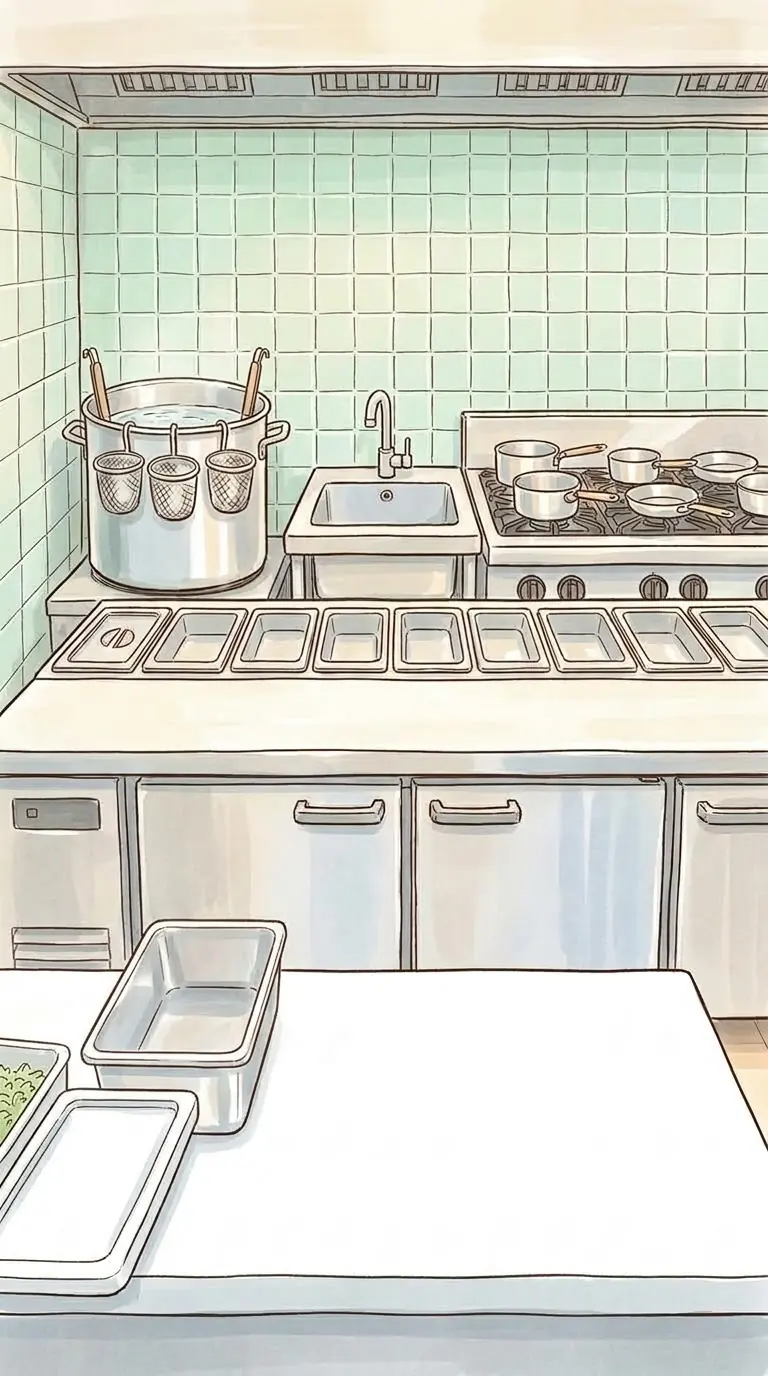
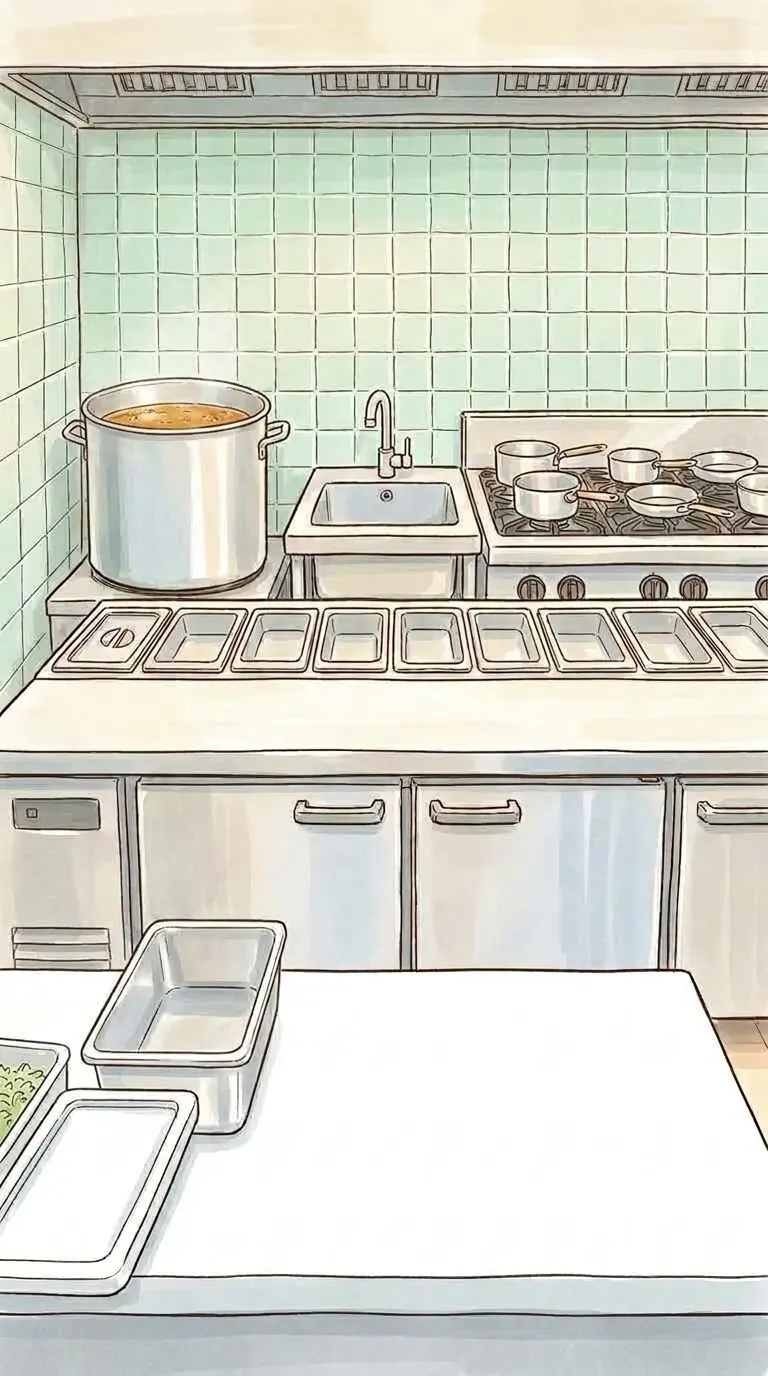
feat(pov): ro trung thanh sprite rieng, xoa khoi noi trong nen

diff --git a/src/pov.js b/src/pov.js
@@ -3,7 +3,7 @@
 import { D, label, tokenMatches } from './game/recipes.js';
 import { iconUrl } from './game/icons.js';
 import { Counter, povOk } from './game/counter.js';
-import { dishArt, dishArtAt, dishStage, faceArt, fx, hand, stationArt } from './game/art.js';
+import { dishArt, dishArtAt, dishStage, faceArt, fx, hand, stationArt, basketArt } from './game/art.js';
 import { POUR, BOWL, SCENE, ZONES } from './data/counter-layout.js';
 export { povOk };
 
@@ -84,9 +84,11 @@ export class Pov {
     const sv = $('pvServed'); if (sv) sv.textContent = `${C.results.length - C.left}/${C.rounds}`;
     $('pvTickets').innerHTML = C.tickets.map((t) => `<div class="tk drop${t.regular ? ' reg' : ''}" data-zone="ticket" data-i="${t.id}"><img class="tk-face" src="${faceArt(t.regular, t.id)}" alt="" draggable="false" onerror="this.remove()"><b>${t.name}</b><span>${D.recipes[t.dish].name}</span><i class="bar"><u style="width:${C.patienceOf(t) * 100}%;background:${C.patienceOf(t) < 0.25 ? 'var(--red)' : C.patienceOf(t) < 0.5 ? 'var(--broth)' : 'var(--green)'}"></u></i></div>`).join('');
     if (this.has.pot) $('pvBaskets').innerHTML = C.baskets.map((b, i) => {
-      if (!b) return `<div class="pv-basket drop" data-zone="pot" data-i="${i}"></div>`;
+      // Rổ là object riêng (docs/ART-PIPELINE.md §9): rỗng vẫn vẽ cái rổ, có sợi thì đổi ảnh.
+      const rk = (full) => `<img class="pv-objimg" src="${basketArt(full)}" alt="" draggable="false" onerror="this.closest('.pv-basket')?.classList.add('noart');this.remove()">`;
+      if (!b) return `<div class="pv-basket drop" data-zone="pot" data-i="${i}">${rk(false)}</div>`;
       const busy = b.left > 0; const st = b.spoiled ? 'hư — vứt đi' : busy ? '…' : b.state === 'hot' ? 'nóng' : b.state === 'rinsed' ? 'đã xả lạnh' : b.state === 'hot2' ? 'nóng lại' : 'xong';
-      return `<div class="pv-basket drop ${b.spoiled ? 'bad' : b.state}" data-zone="pot" data-i="${i}"><div class="pv-rk ${busy ? '' : 'dragsrc'}" ${src1('basket', null, i)}>${img(b.spoiled ? b.input : b.input)}<small>${st}</small>${bar(b.left, b.total)}</div></div>`;
+      return `<div class="pv-basket drop ${b.spoiled ? 'bad' : b.state}" data-zone="pot" data-i="${i}"><div class="pv-rk ${busy ? '' : 'dragsrc'}" ${src1('basket', null, i)}>${rk(true)}<i class="pv-ghosticon">${img(b.input)}</i><small>${st}</small>${bar(b.left, b.total)}</div></div>`;
     }).join('');
     if (this.has.pot) $('pvHot').innerHTML = C.hot.length ? C.hot.map((h, i) => `<div class="pv-hb ${h.left > 0 ? '' : 'dragsrc'}" ${src1('hotbowl', null, i)}>${img(h.input)}<small>${h.left > 0 ? '…' : 'nóng'}</small>${bar(h.left, h.total)}</div>`).join('') : '<small class="hint">tô nóng trữ ở đây</small>';
     if (this.has.sink) $('pvSink').innerHTML = C.sinkJob ? `<div class="pv-job ${C.sinkJob.left > 0 ? '' : 'dragsrc'}" ${src1('sink')}>${img(C.sinkJob.input)}<small>${C.sinkJob.left > 0 ? C.sinkJob.name : 'xong'}</small>${bar(C.sinkJob.left, C.sinkJob.total)}</div>` : '';

diff --git a/index.html b/index.html
@@ -266,6 +266,19 @@
       .pv-stage .dragsrc:active { transform: scale(.94); }
       .pv-stage .pv-baskets { gap: 4%; }
       .pv-stage .pv-basket { flex: 1; min-height: 0; height: 74%; }
+      /* rổ trụng là object riêng, không còn vẽ trong nền */
+      .pv-stage .pv-basket { position: relative; border: 0; }
+      .pv-stage .pv-basket .pv-objimg { position: absolute; inset: 0; width: 100%; height: 100%;
+        object-fit: contain; filter: drop-shadow(0 2px 3px rgba(60,44,28,.30)); }
+      .pv-stage .pv-basket .pv-rk { position: absolute; inset: 0; display: flex; flex-direction: column;
+        align-items: center; justify-content: flex-end; }
+      .pv-stage .pv-basket .pv-rk .pv-ghosticon { display: none; }
+      .pv-stage .pv-basket .pv-rk small, .pv-stage .pv-basket .pv-rk .bar { position: relative; z-index: 1; }
+      .pv-stage .pv-basket.noart { border: 2px dashed rgba(255,255,255,.5); border-radius: 8px; }
+      .pv-stage .pv-basket.hot .pv-objimg, .pv-stage .pv-basket.hot2 .pv-objimg {
+        filter: drop-shadow(0 0 6px rgba(255,209,102,.95)); }
+      .pv-stage .pv-basket.rinsed .pv-objimg { filter: drop-shadow(0 0 6px rgba(127,211,255,.95)); }
+      .pv-stage .pv-basket.bad .pv-objimg { filter: drop-shadow(0 0 6px rgba(214,64,44,.95)); }
       .pv-stage .pv-slots { position: absolute; inset: 0; height: auto; display: grid;
         grid-auto-flow: column; gap: 2%; }
       .pv-stage .pv-slot { border: 0; background: radial-gradient(ellipse at 50% 62%, rgba(90,66,44,.16), transparent 62%); }

diff --git a/src/game/art.js b/src/game/art.js
@@ -75,3 +75,6 @@ export const STATION_ART = {
 };
 export const stationArt = (tok) => STATION_ART[tok] || null;
 
+/** Rổ trụng: rỗng / đang có sợi. Thiếu ảnh thì pov.js quay về icon cũ. */
+export const basketArt = (full = false) => `${BASE}st-basket${full ? '-noodle' : ''}.webp`;
+
